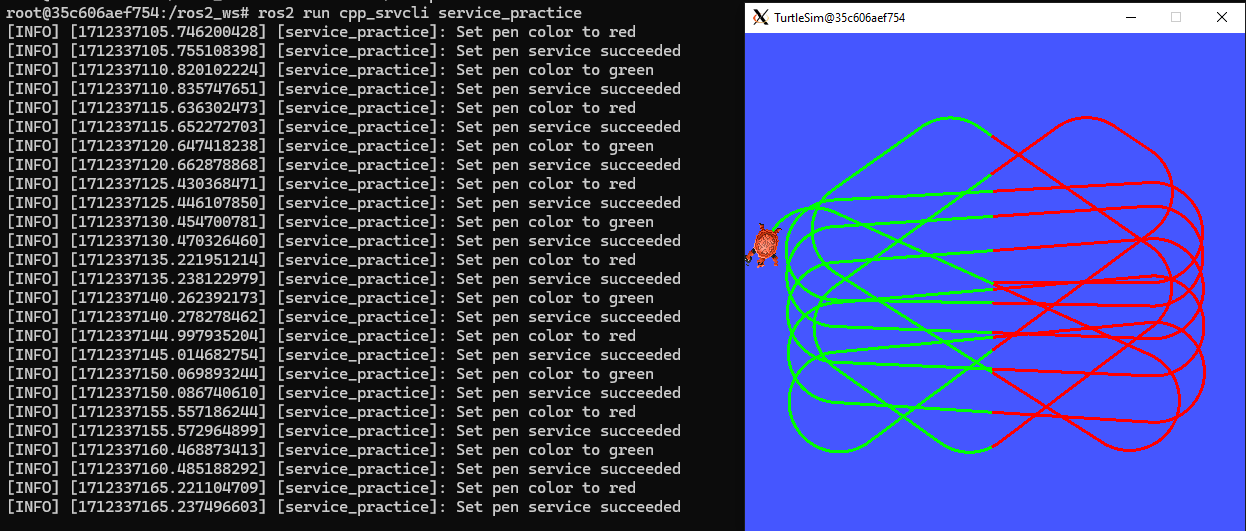
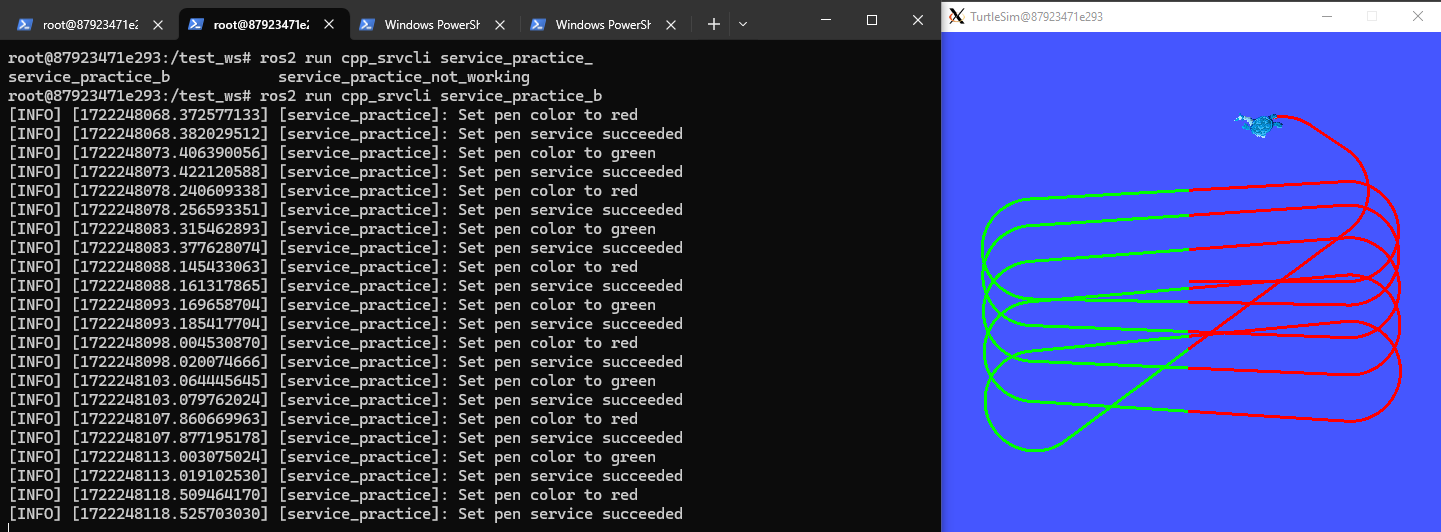
fixed redaction issues and added the optional part to the cpp service part

diff --git a/docs/source/Writing service and client. C++.rst b/docs/source/Writing service and client. C++.rst
@@ -142,6 +142,7 @@ Once the C++ script is ready, make sure the dependencies to run this script are 
    <depend>example_interfaces</depend>
 
 About the ``<depend>`` tags:
+
 - This tag is a more general declaration of dependency. It's used to specify both build-time and runtime dependencies. ``<depend>`` includes both the dependencies needed for compilation and those needed at runtime. It encompasses a wider range of dependencies compared to ``<exec_depend>``.
 
 3. Service, C++. Adding the executable
@@ -380,7 +381,7 @@ The fourth part:
       RCLCPP_INFO(rclcpp::get_logger("rclcpp"), "service not available, waiting again...");
    }
 
-- This loop waits until the service becomes available or until the program is interrupted. If the program is interrupted (e.g., by pressing Ctrl+C), it exits gracefully.
+- This loop waits until the service becomes available or until the program is interrupted. If the program is interrupted (e.g., by pressing Ctrl+C), it exits gracefully. The loop makes use of ``1s``, which is a literal representing 1 second. This is made possible by using ``namespace std::chrono_literals;``.
 
 And the fifth part:
 
@@ -412,7 +413,7 @@ As the libraries to use in this program are exactly the same as in the publisher
 3. Service client, C++. CMakeLists.txt
 ~~~~~~~~~~~~~~~~~~~~~~~~~~~~~~~~~~~~~~~~~~~~
 
-Navigate to ``cpp_srvcli/CMakeLists.txt``` and add the following below the ``ament_target_dependencies(add_two_ints_server rclcpp example_interfaces)`` command:
+Navigate to ``cpp_srvcli/CMakeLists.txt`` and add the following below the ``ament_target_dependencies(add_two_ints_server rclcpp example_interfaces)`` command:
 
 .. code-block:: console
    
@@ -488,7 +489,7 @@ Once, this node is ran, the service becomes available and in the terminal where 
 Practice 
 ---------
 
-Have ``trutlesim`` node running. Create a new node called ``service_practice`` that performs:
+Have ``trutlesim_node`` and ``turtle_teleop_key`` nodes running. Create a new node called ``service_practice`` that performs:
 
 - When the turtle crosses the point x = 5.5 to the right of the screen, its drawing line should change of color to be red.
 - When the turtle position is to the left of the screen (its x position is lower than 5.5), its drawing line should become green.
@@ -496,18 +497,41 @@ Have ``trutlesim`` node running. Create a new node called ``service_practice`` t
 
 See image below for an example of the results:
 
+.. image:: images/servicPracticeCpp.png
+   :alt: Service practice example with the teleop node Cpp.
+
+
+Optional
+~~~~~~~~
+Have only the ``trutlesim_node`` node running. Create a new node called ``service_practice_b`` that performs:
+
+- Make the turtlebot move accross the window with linear velocity 1.
+- When the turle is close to any wall of the screen, make it turn so it avoids crashing with it. Slow the movement of the turtle reducing its linear velocity to 0.5.
+- When the turtle crosses the point x = 5.5 to the right of the screen, its drawing line should change of color to be red.
+- When the turtle position is to the left of the screen (its x position is lower than 5.5), its drawing line should become green.
+- Print in the terminal the color that is using.
+
+See image below for an example of the results:
+
 .. image:: images/servicePracticeCpp.png
-   :alt: Service practice example Cpp.
+   :alt: Service practice example of the optional part, cpp.
 
 A must-see for completing the practice
 ~~~~~~~~~~~~~~~~~~~~~
 
 The use of ``rclcpp::spin_until_future_complete()`` might have entered in conflict with ``rclcpp::spin()`` in the ``service_practice`` program while trying to accomplish the practice. For that, imagine a relatively simpler problem to address:
 
-- In a :ref:`new terminal<Installation/Running a docker container>`, run the service node ``add_two_ints_server``. This will make the ``add_two_ints`` service available for use. 
-- :ref:`Open a new terminal<Installation/Opening a new terminal>`, and run a talker node like has been seen in a :ref:`previous part<Writing custom publisher and subscriber nodes. C++. Python/Publisher node in C++>` of the course. Recall to follow all the required steps (adding depencies, configuring the CMakeLists, etc.) to have this node available to use in this package.
+- In a `new terminal`_, run the service node ``add_two_ints_server``. This will make the ``add_two_ints`` service available for use. 
+- `Open a new terminal`_, and run a talker node like has been seen in a `previous part`_ of the course. Recall to follow all the required steps (adding depencies, configuring the CMakeLists, etc.) to have this node available to use in this package.
 
-With these nodes running, the problem is to create a node that subscribes to the topic called ``topic``, prints the messages that arrive to the topic (just like :ref:`this previous program<Writing custom publisher and subscriber nodes. C++/Subscriber node in cpp>`) and when the message ``"Hello, world! 10'"`` arrives, it calls the ``add_two_ints`` service and prints in the terminal the sum of ``5`` and ``2``. See an example below.
+
+.. _new terminal: https://ros2course.readthedocs.io/en/latest/Installation%20and%20software%20setup.html#opening-a-new-terminal-for-the-docker-container
+
+.. _`previous part`: https://ros2course.readthedocs.io/en/latest/Writing%20publisher%20and%20subscriber%20nodes.%20C%2B%2B.html#build-publisher-node-and-run
+
+With these nodes running, the statement of the problem is to create a node that subscribes to the topic called ``topic``, prints the messages that arrive to the topic (just like  `this previous program`_) and when the message ``"Hello, world! 10'"`` arrives, it calls the ``add_two_ints`` service and prints in the terminal the sum of ``5`` and ``2``. See an example below.
+
+.. _`this previous program`: https://ros2course.readthedocs.io/en/latest/Writing%20publisher%20and%20subscriber%20nodes.%20C%2B%2B.html#build-subscriber-node-and-run 
 
 .. image:: images/simplerProblemExampleWorkingGoodCpp.png
    :alt: Simpler problem result example.
